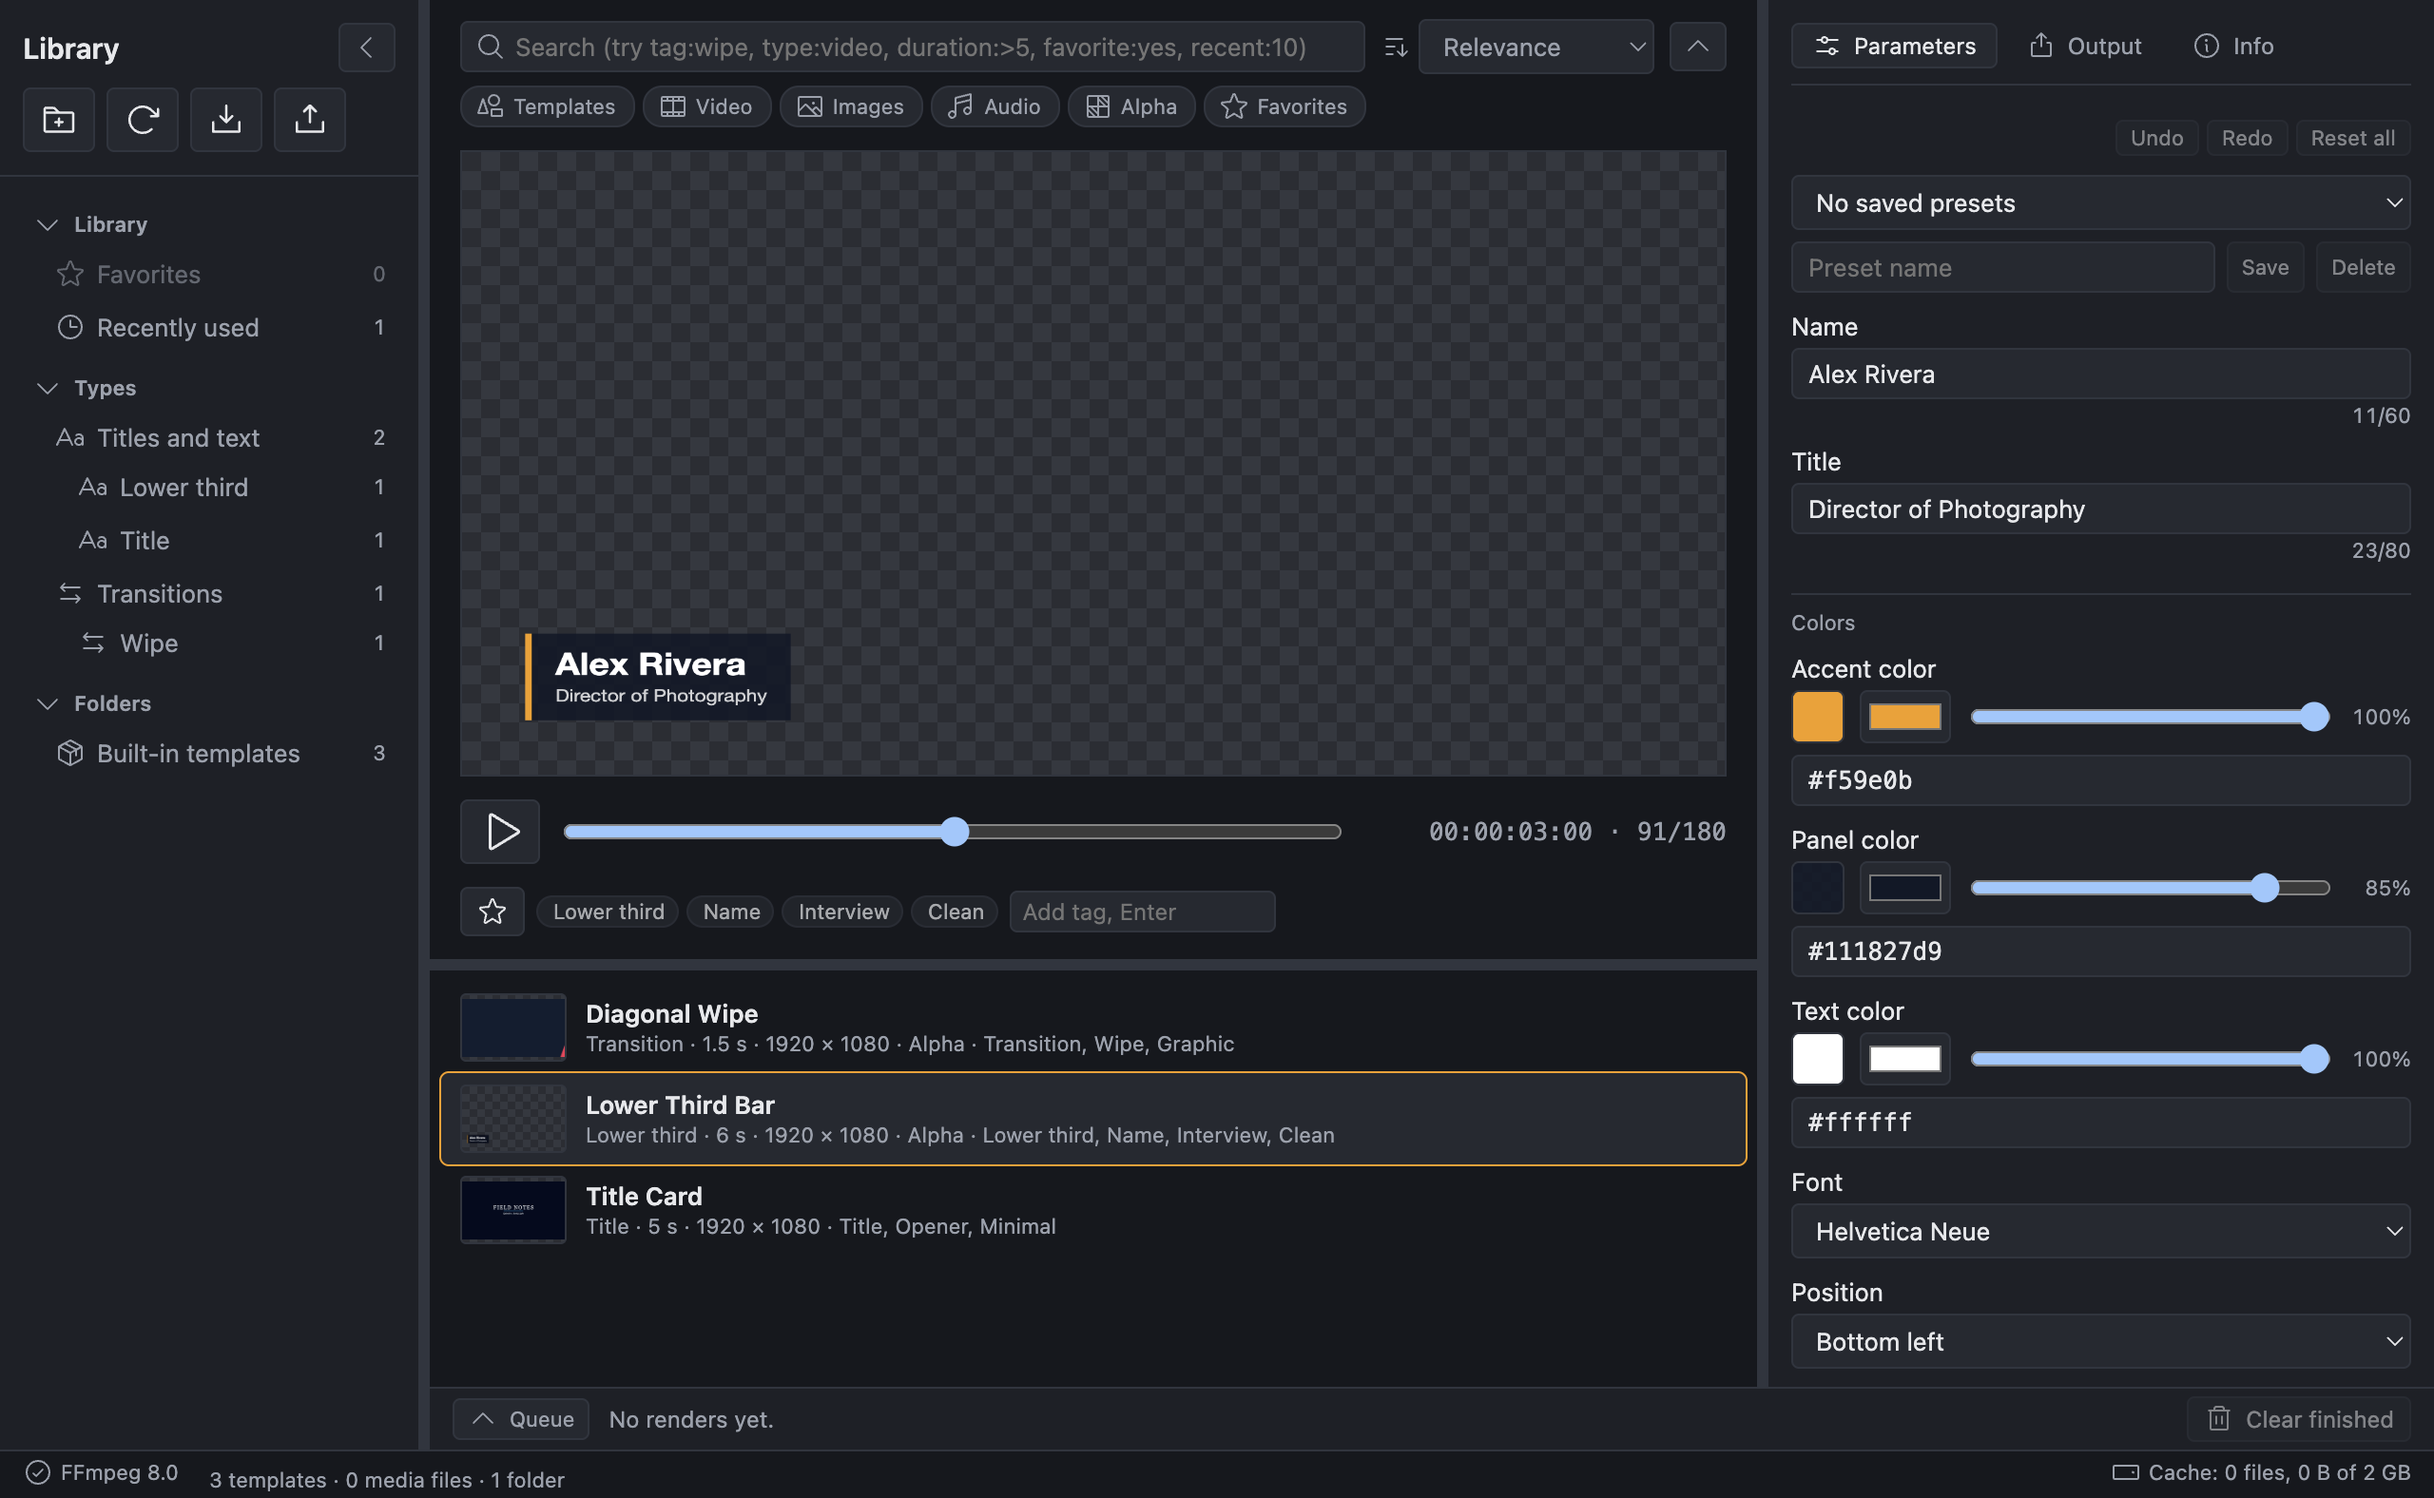
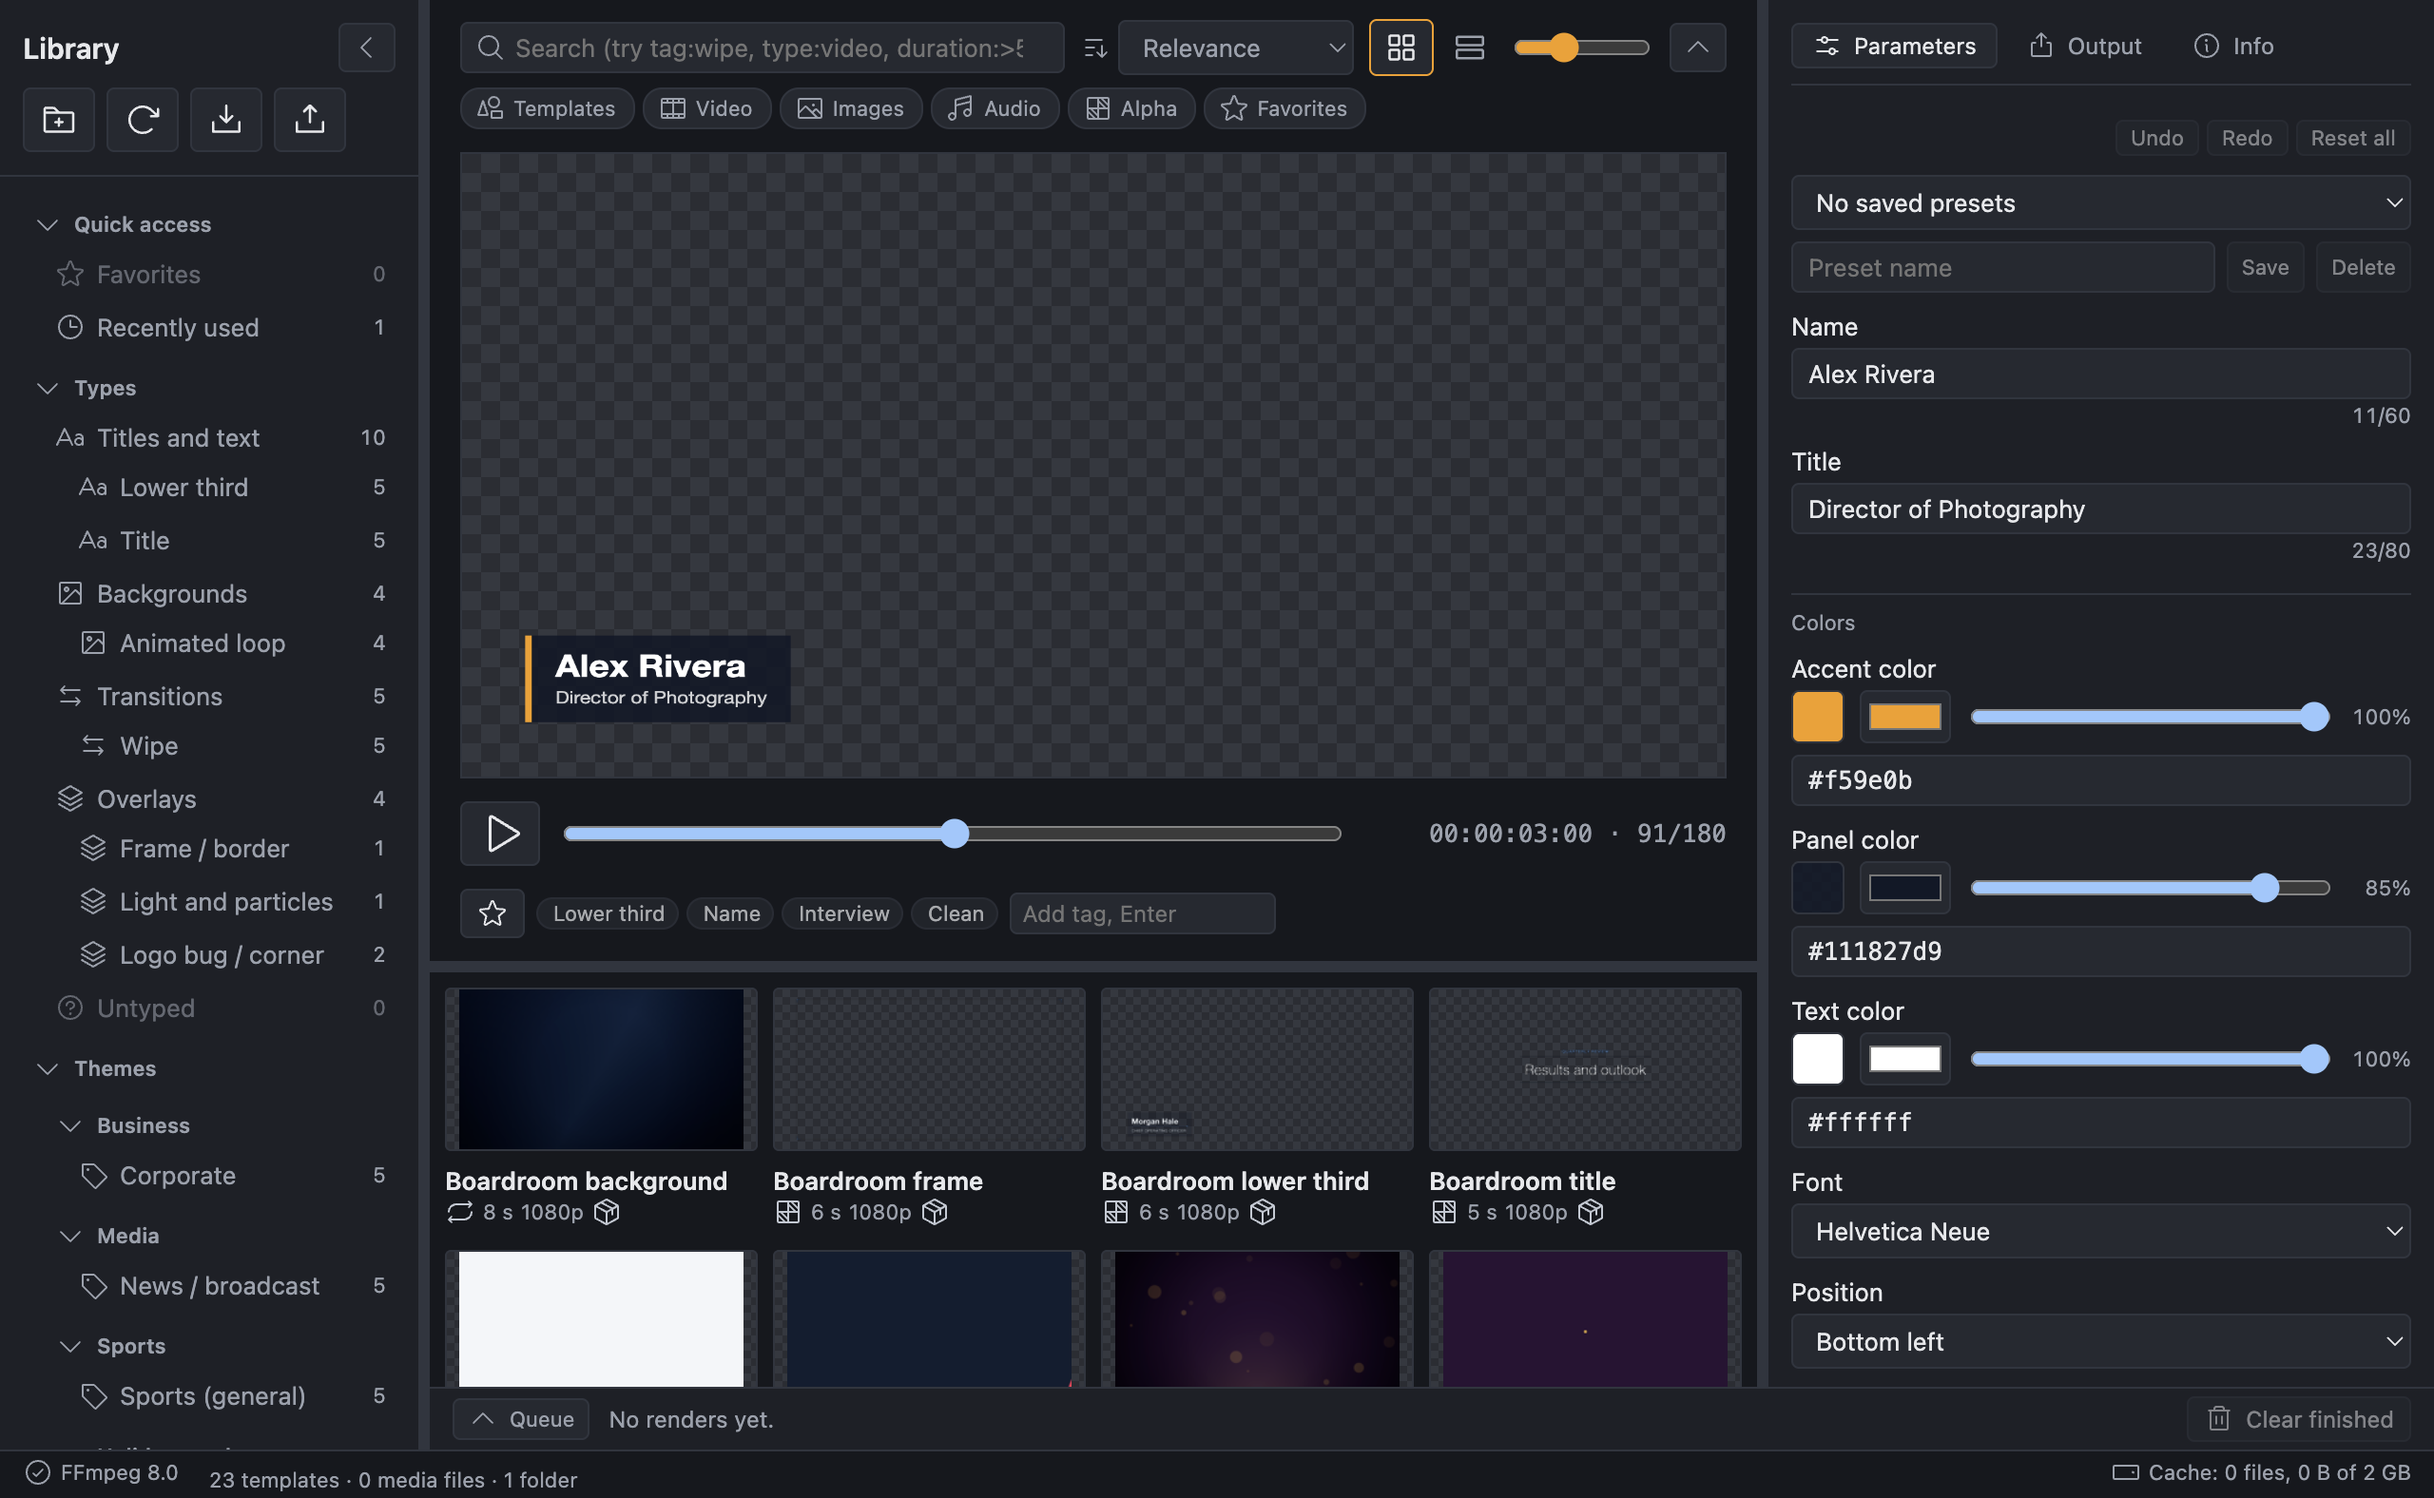
README up to date with the card grid; screenshot retaken
The screenshot showed the old flat result list. Retaken from the running app
(bundled samples only, same 2560x1576 content area as before), so it shows the
card grid with its badges, the grid/list toggle and the thumbnail size control.

The status line, the feature list and the remaining-milestones table were also
behind: milestones 18 and 10 were listed as still to come, and milestone 12 now
has its first three items done. Roadmap's open-hours total follows.

Part of #12

diff --git a/README.md b/README.md
@@ -11,11 +11,11 @@ Templates use an open, documented format: a folder with a `template.json` manife
 
 "Pulp" is a working name and may change.
 
-**Status: early development.** The renderer, the template format, search, template packs, drag-out to editing apps and the window shell are in place; categorization, a card grid, collections and installers are still to come. Expect breaking changes to the format and the app until 1.0. See [ROADMAP.md](ROADMAP.md).
+**Status: early development.** The renderer, the template format, search, categorization, template packs, drag-out to editing apps, the window shell and the card grid are in place; the richer player, collections and installers are still to come. Expect breaking changes to the format and the app until 1.0. See [ROADMAP.md](ROADMAP.md).
 
-![Pulp's window: the browse panel on the left, the search bar with filter chips above a live preview of the Lower Third Bar template and the result list in the center, the inspector with Parameters, Output and Info tabs on the right, the render tray collapsed to a one-line summary at the bottom, and a status bar](docs/images/app-window.png)
+![Pulp's window: the browse tree on the left, the search bar with filter chips above a live preview of the Lower Third Bar template and a grid of template cards in the center, the inspector with Parameters, Output and Info tabs on the right, the render tray collapsed to a one-line summary at the bottom, and a status bar](docs/images/app-window.png)
 
-*The browse panel (Favorites, Recently used, folders) on the left; the search bar with filter chips and sorting over the stage — a live preview with play and scrub — and the result list in the center; the inspector with its Parameters, Output and Info tabs on the right; the render tray and a status bar along the bottom. Panes resize and collapse, and the layout is remembered. All content shown is from the bundled sample templates.*
+*The browse tree (Quick access, Types, Themes, Styles, Packs, Folders, with counts) on the left; the search bar with filter chips, sorting and the grid/list toggle over the stage — a live preview with play and scrub — and the results as cards with badges in the center; the inspector with its Parameters, Output and Info tabs on the right; the render tray and a status bar along the bottom. Panes resize and collapse, and the layout is remembered. All content shown is from the bundled sample templates.*
 
 ### Sample output
 
@@ -45,27 +45,26 @@ The lower third animating in, holding and animating out (15 fps preview of the 3
 - Drag a finished render from the queue into your editor's bin or timeline, or "Prepare for drag" to render into a managed cache first; verified in Premiere Pro and Resolve on macOS.
 - Template packs: import a `.zip` or folder with a license-and-collision preview, export the listed templates as a pack.
 - A resizable window shell whose panes collapse and are remembered, a render queue in a bottom tray, and a status bar with ffmpeg, library counts, cache size and activity.
+- Results as a grid of cards — thumbnail, name and badges for alpha, loop, duration, resolution and pack — or as a list with name, duration, type, themes and file columns, with the grid/list toggle and the thumbnail size in the search bar. Only what is in view is built, so a library of thousands scrolls smoothly.
 - A headless command-line render mode (below).
 
-Not yet: browsing by type and theme, a thumbnail card grid, collections (gather items, render all), installers and signed builds, verification on Windows and in Final Cut Pro. These are on the [roadmap](ROADMAP.md).
+Not yet: hover-scrub thumbnails, a richer player (loop, background toggle, safe areas, waveforms), audition mode for audio, collections (gather items, render all), installers and signed builds, verification on Windows and in Final Cut Pro. These are on the [roadmap](ROADMAP.md).
 
 ## What's next
 
 The [roadmap](ROADMAP.md) breaks the path to 1.0 into milestones with task-level estimates. Estimates are working hours for one developer, including tests and docs.
 
-Milestones 1-6 and 11 (renderer, alpha export, parameter editor, library, drag-out, template packs, the window shell) are done apart from verification items that need a Windows machine or Final Cut Pro. In planned order, what remains to 1.0:
+Milestones 1-6, 11, 18 and 10 (renderer, alpha export, parameter editor, library, drag-out, template packs, the window shell, visual polish and categorization) are done apart from verification items that need a Windows machine or Final Cut Pro. In planned order, what remains to 1.0:
 
 | Milestone | What it delivers | Estimate |
 |---|---|---|
-| 18. Visual polish: labels, icons and hierarchy | Sentence-case labels and humanized tags from one display-name module, Phosphor icons with an icon rail and icon toolbars, design tokens and a style guide with an enforcement test | 8-13 h |
-| 10. Categorization by type and theme | Built-in type, theme and style lists (user-extendable), a browse tree with counts and scoped search, `type:`/`theme:`/`style:` filters, matched sample sets for corporate, sports, holiday and news | 14-23 h |
-| 12. Browse and preview | A card grid with badges and hover-scrub, virtualized results, a richer player (loop, background toggle, safe areas, waveforms), audition mode for audio | 13-21 h |
+| 12. Browse and preview | The card grid with badges and the virtualized results are in; still to come are hover-scrub thumbnails, a richer player (loop, frame step, in/out marks, background toggle, safe areas), waveforms for audio and audition mode | 7-12 h left of 13-21 h |
 | 13. Collections | Gather items while browsing, save and load as a file, render all with per-item settings | 8-14 h |
 | 17. Unsigned builds and releases | electron-builder, unsigned macOS/Windows builds and a Linux AppImage, a draft-release workflow, the ffmpeg distribution decision | 7-12 h |
 | 7. Signing and auto-update | macOS notarization, Windows code signing, electron-updater (blocked on account decisions) | 4-7 h |
 | 8. 1.0 hardening and docs | Frozen template and pack formats v1 with a JSON Schema, an authoring guide, an accessibility pass, local crash reporting, more sample templates, a user guide | 9-16 h |
 
-The milestones through 1.0 total **133-226 hours**, of which **45-76 hours** are still open (the rest is done). Post-1.0 milestones (defaults per type and a guided setup, converting library media, audio with stems and paired effects, image parameters, a CLI, optional on-device semantic search) add 32-58 hours. The window layout these milestones build toward is described in [docs/ui-layout.md](docs/ui-layout.md).
+The milestones through 1.0 total **133-226 hours**, of which **39-67 hours** are still open (the rest is done). Post-1.0 milestones (defaults per type and a guided setup, converting library media, audio with stems and paired effects, image parameters, a CLI, optional on-device semantic search) add 32-58 hours. The window layout these milestones build toward is described in [docs/ui-layout.md](docs/ui-layout.md).
 
 ## Template format
 

diff --git a/ROADMAP.md b/ROADMAP.md
@@ -26,7 +26,7 @@ Milestones keep the number they were given when they were added, so GitHub issue
 | 16. Audio: stems, variants and pairing (post-1.0) | 8-14 h |
 | 9. Later (post-1.0) | 10-22 h |
 | **Total through 1.0 (milestones 1-8, 10-13, 17 and 18)** | **133-226 h** |
-| **Still open through 1.0 (unticked items only)** | **45-76 h** |
+| **Still open through 1.0 (unticked items only)** | **39-67 h** |
 | **Total including post-1.0 items** | **165-284 h** |
 
 ## 0. Foundation (done)
